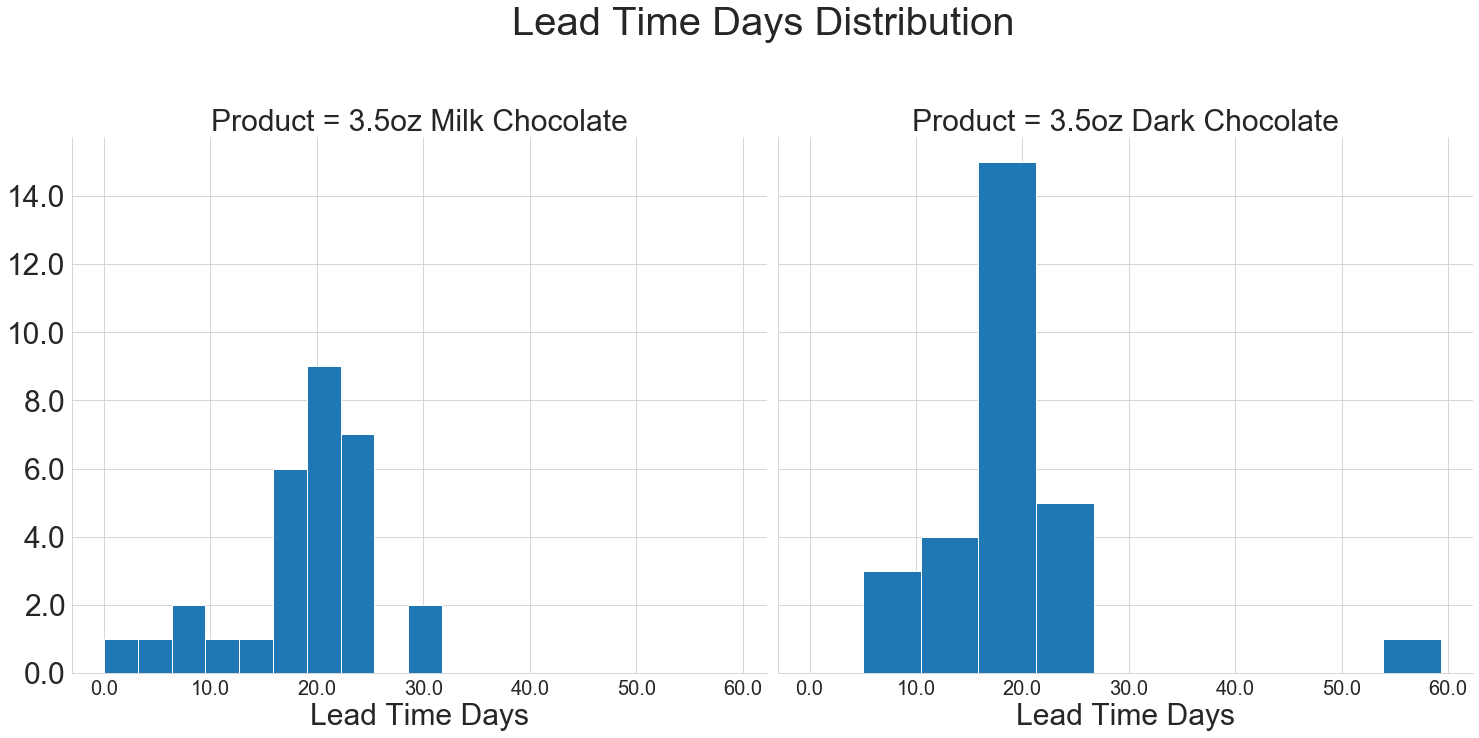
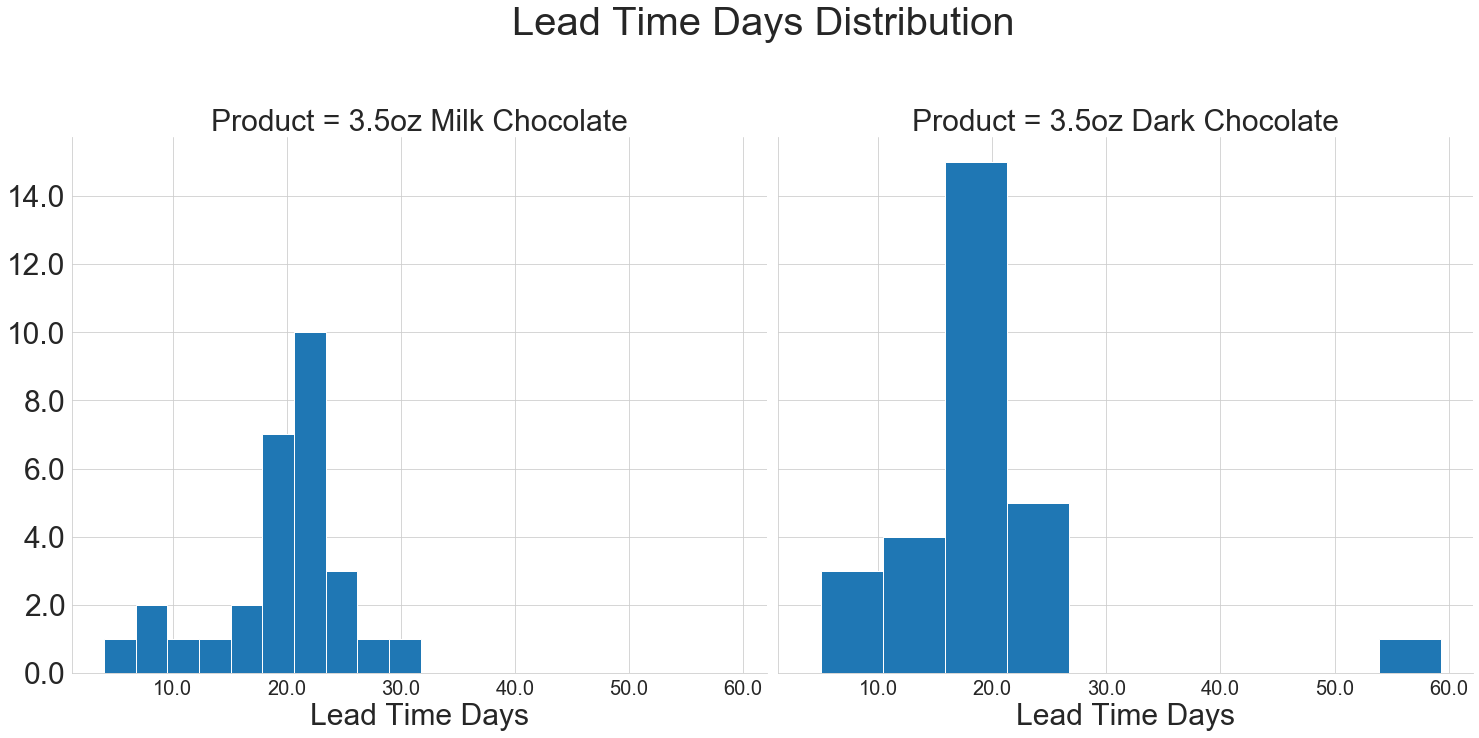
Lead time distributions

diff --git a/_posts/2020-4-10-Multi-Period Inventory Planning with Stochastic Demand Using Python.md b/_posts/2020-4-10-Multi-Period Inventory Planning with Stochastic Demand Using Python.md
@@ -377,7 +377,7 @@ The following Python code calculates best distribution fit for the
 order amount. 
 
 {% highlight python %}
-products = interarrivals['Product'].unique()
+products = orders['Product'].unique()
 distribution_data_by_product = orders[orders['Order Units']>0]
 orders_best_distribution_by_product, orders_pvalues_by_product = fit_simulation_data(products, 
                                                                                      distribution_names, 
@@ -398,37 +398,60 @@ Exponential and gamma distributions fit best for products as shown in Figure 13.
 |:--:| 
 | *Figure 13: Best distributions for order amount* |
 
-### Lead Time
+### Lead Times
+
+Lead time is the time between order is placed
+from the warehouse until it is replenished by
+the manufacturing plant. 
+Figure 14 illustrates lead time distributions. 
+
+| ![_config.yml]({{ site.baseurl }}/images/Multi-Period Inventory Planning with Stochastic Demand Using Python/lead_time_distribution.png) | 
+|:--:| 
+| *Figure 14: Lead time distributions* 
+
+The following table shows descriptive statistics for the lead time. 
+Average lead time for both products is 19.3 days.
+
+| Product | Average Lead Time Days | Std Lead Time Days | Lead Time CoV
+|-------|-------|--------|--------|
+| 3.5oz Milk Chocolate | 19.3 |	9.4 | 0.49 |
+| 3.5oz Dark Chocolate | 19.3 | 6.1 | 0.31 |
+
+We use the following Python code to find the best distribution fits
+the lead time data.
+
+{% highlight python %}
+products = orders['Product'].unique()
+distribution_data_by_product = orders[orders['Lead Time Days']>0]
+lead_time_best_distribution_by_product, lead_time_pvalues_by_product = fit_simulation_data(products, 
+                                                                                           distribution_names, 
+                                                                                           distribution_data_by_product,
+                                                                                           'Lead Time Days')
+{% endhighlight %}
+
+We fit the lead time data for various distributions and Figure 15 illustrates
+pvalues for those tests.
+
+| ![_config.yml]({{ site.baseurl }}/images/Multi-Period Inventory Planning with Stochastic Demand Using Python/Lead Time Days PValues.png) | 
+|:--:| 
+| *Figure 15: Lead time distribution fitting* |
+
+Weibull min and Beta distributions fit the lead time data best. 
+Figure 16 illustrates density functions of those distributions.
+
+| ![_config.yml]({{ site.baseurl }}/images/Multi-Period Inventory Planning with Stochastic Demand Using Python/Interarival Times in Days Density Plot.png) | 
+|:--:| 
+| *Figure 16: Lead time best distributions density functions* |
+
+## Inverse Functions
 
 
 
 
 
-We provide descriptive statistics on orders and lead times 
-from historical data from last 200 days.
- 
- 
- 
- 
- 
- 
+### Preparing Distributions for The Simulation Model
 
 
-
-
-
-
-
-
-
-
-Inventory at the warehouse decreases as orders are picked by 
-the retailer. 
-When inventory reach at a level (called reorder point), PCC
-orders product from the manufacturing plant. Warehouse receives the 
-orders from the manufacturing plant and available inventory 
-reaches to the maximum
-level. 
 
 
 
